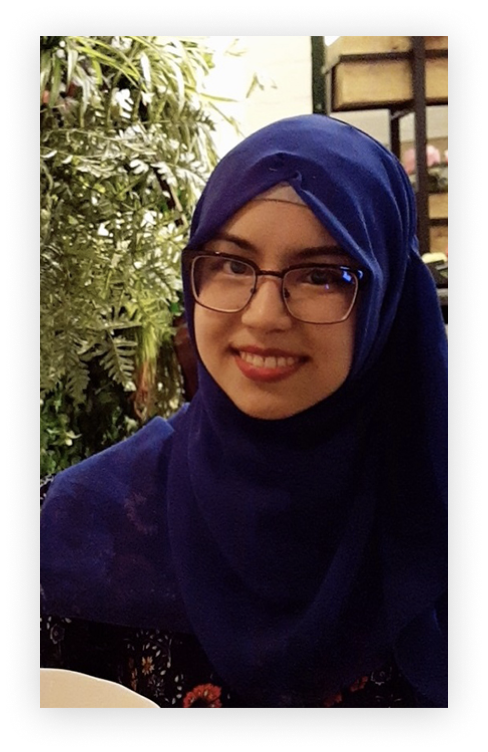
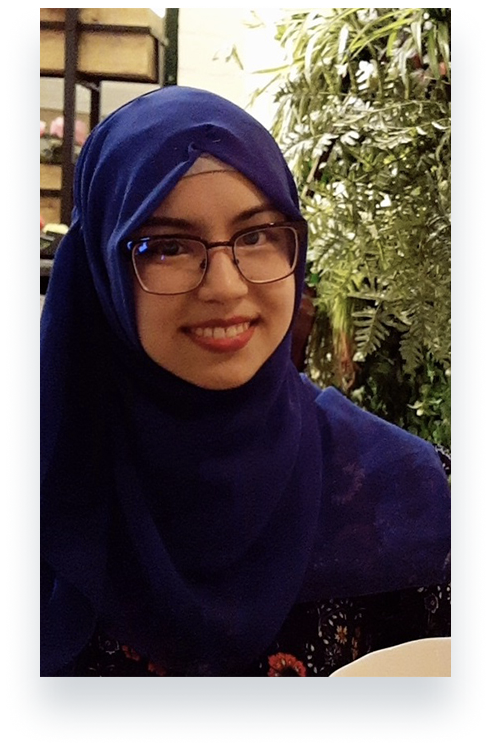
Add new sections

diff --git a/src/components/Process.js b/src/components/Process.js
@@ -1,0 +1,103 @@
+import React from "react"
+import learn from "../assets/learn.png"
+import standing from "../assets/standing.png";
+import meeting from "../assets/meeting.png";
+import code from "../assets/code.png";
+import graph from "../assets/graph.png";
+
+const Process = () => {
+  return (
+    <>
+      <div className="row mt-5 mb-5">
+        <div className="col">
+          <h2>Curriculum Process</h2>
+          <div className="section-divider" />
+          <p className="basicSection--sub">
+            Est sint officia anim eu consectetur veniam id tempor consectetur
+            labore culpa voluptate.
+          </p>
+        </div>
+      </div>
+      <div className="row">
+        <div className="col-4">
+          <h3>
+            <span>1. </span> Orientation Week
+          </h3>
+          <p>
+            Inform yourself about the three Learning - Tracks that TechLabs
+            offers and choose your favorite track!
+          </p>
+        </div>
+        <div className="col-4">
+          <h3>
+            <span>3. </span> Project Kickoff
+          </h3>
+          <p>
+            Inform yourself about the three Learning - Tracks that TechLabs
+            offers and choose your favorite track!
+          </p>
+        </div>
+        <div className="col-4">
+          <h3>
+            <span>5. </span> Completion of the Project
+          </h3>
+          <p>
+            Inform yourself about the three Learning - Tracks that TechLabs
+            offers and choose your favorite track!
+          </p>
+        </div>
+      </div>
+      <div className="row mt-5">
+        <div className="col-4">
+          <div className="process--shapeOne text-center d-flex justify-content-center align-items-center">
+            <img src={learn} alt="" className="process--shapeOne-img" />
+          </div>
+        </div>
+        <div className="col-4">
+          <div className="process--shapeTwo text-center d-flex justify-content-center align-items-center">
+            <img src={meeting} alt="" className="process--shapeOne-img" />
+          </div>
+        </div>
+        <div className="col-4">
+          <div className="process--shapeThree text-center d-flex justify-content-center align-items-center">
+            <img src={graph} alt="" className="process--shapeOne-img" />
+          </div>
+        </div>
+      </div>
+      <div className="row">
+        <div className="col-5 d-flex justify-content-center ">
+          <div className="process--shapeFour text-center d-flex justify-content-center align-items-center">
+            <img src={standing} alt="" className="process--shapeOne-img" />
+          </div>
+        </div>
+        <div className="col-7 d-flex justify-content-center ">
+          <div className="process--shapeFive text-center d-flex justify-content-center align-items-center">
+            <img src={code} alt="" className="process--shapeOne-img" />
+          </div>
+        </div>
+        <div className="row mt-5">
+          <div className="col-6">
+            <h3>
+              <span>5. </span> Completion of the Project
+            </h3>
+            <p>
+              Inform yourself about the three Learning - Tracks that TechLabs
+              offers and choose your favorite track!
+            </p>
+          </div>
+          <div className="col-6">
+            <h3>
+              <span>5. </span> Completion of the Project
+            </h3>
+            <p>
+              Inform yourself about the three Learning - Tracks that TechLabs
+              offers and choose your favorite track!
+            </p>
+          </div>
+        </div>
+      </div>
+    </>
+  )
+}
+
+export default Process

diff --git a/src/styles/_process.scss b/src/styles/_process.scss
@@ -1,0 +1,66 @@
+@import "./variables";
+
+.process {
+  &--shapeOne {
+    background: $color-p;
+    height: 250px;
+    width: 250px;
+    transform: rotate(45deg);
+    border-top-left-radius: 100px;
+    border-bottom-left-radius: 100px;
+    &-img {
+      transform: rotate(-45deg);
+    }
+  }
+
+  &--shapeTwo {
+    background: $color-p;
+    height: 250px;
+    width: 250px;
+    transform: rotate(45deg);
+    border-top-left-radius: 100px;
+    &-img {
+      transform: rotate(-45deg);
+    }
+  }
+
+  &--shapeThree {
+    background: $color-p;
+    height: 250px;
+    width: 250px;
+    transform: rotate(45deg);
+    border-top-left-radius: 100px;
+    border-top-right-radius: 100px;
+    &-img {
+      transform: rotate(-45deg);
+    }
+  }
+  &--shapeFour {
+    background: $color-p;
+    height: 250px;
+    width: 250px;
+    transform: rotate(45deg);
+    border-bottom-right-radius: 100px;
+    margin-left: 180px;
+    margin-top: -5vh;
+    &-img {
+      transform: rotate(-45deg);
+    }
+  }
+  &--shapeFive {
+    background: $color-p;
+    height: 250px;
+    width: 250px;
+    transform: rotate(45deg);
+    border-bottom-right-radius: 100px;
+    margin-left: -190px;
+    margin-top: -5vh;
+    &-img {
+      transform: rotate(-45deg);
+    }
+  }
+
+  &--shapeOne:hover, &--shapeTwo:hover, &--shapeThree:hover, &--shapeFour:hover, &--shapeFive:hover{
+
+  }
+}

diff --git a/src/pages/program.js b/src/pages/program.js
@@ -5,6 +5,7 @@ import Academy from "../components/Academy"
 import ThreeComponents from "../components/ThreeComponents"
 import background from "../assets/p_background.png"
 import benefits from "../assets/benefits.png"
+import Process from '../components/Process'
 import icon1 from "../assets/icon1.png"
 import icon2 from "../assets/icon2.png"
 import icon3 from "../assets/icon3.png"
@@ -86,6 +87,7 @@ class program extends Component {
               </div>
             </div>
           </section>
+          <Process/>
         </div>
       </div>
     )

diff --git a/src/components/Slider.js b/src/components/Slider.js
@@ -33,7 +33,7 @@ class Slider extends Component {
         role: "IT-Master",
         text:
           "I already come from the IT sector, but I am not learning programming there. That's why I came to TechLabs. The Web Development Track provides me with the necessary knowledge and the certificate is particularly valuable to me.",
-        image: Simon,
+        image: Clara,
         width: "100%"
       },
     ],

diff --git a/src/styles/_programmHero.scss b/src/styles/_programmHero.scss
@@ -2,7 +2,7 @@
 
 .programmHero {
   &--hero {
-    height: 70vh;
+    height: 100vh;
     background-repeat: no-repeat;
     background-position: top;
     background-size: 100vw;
@@ -13,6 +13,7 @@
     font-size: 75px;
     line-height: 85px;
     color: #fb1d5c !important;
+    width: 90%;
   }
 
   &--highlighted {

diff --git a/src/styles/_main.scss b/src/styles/_main.scss
@@ -17,6 +17,8 @@
 @import "./whatWeOffer";
 @import "./keyBenefits";
 @import "./academy";
+@import "./process";
+
 
 h1,
 h2,
